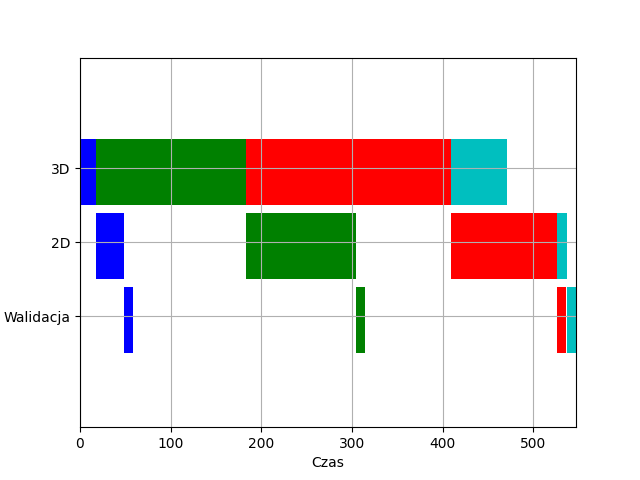
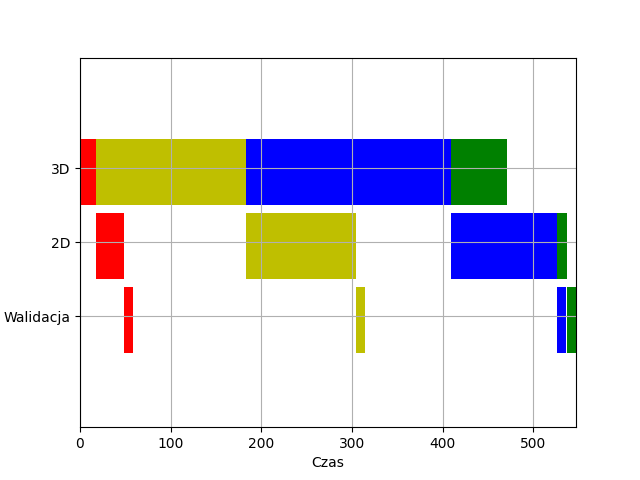
update front / new bootstrap table display

Changed region(s): [[0.125, 0.2812, 0.9062, 0.75]]

diff --git a/templates/display.html b/templates/display.html
@@ -13,13 +13,19 @@
 <br><br>
 
 <h2>Zestawienie przedstawiające czasy trwania poszczególnych zadań dla konkretnego projektowania. </h2>
-<table class="table table-dark">
-    <thead>
+<table class="table">
+    <thead class="table-light">
     <tr>
         <th scope="col"></th>
-        <th scope="col">Projektowanie 3D</th>
-        <th scope="col">Projektowanie 2D</th>
-        <th scope="col">Weryfikacja/Walidacja</th>
+        <th scope="col"><h5>Projektowanie 3D</h5></th>
+        <th scope="col"><h5>Projektowanie 2D</h5></th>
+        <th scope="col"><h5>Weryfikacja/Walidacja</h5></th>
+    </tr>
+    <tr>
+        <th scope="col"></th>
+        <th scope="col">Czas trwania zadania[h]</th>
+        <th scope="col">Czas trwania zadania[h]</th>
+        <th scope="col">Czas trwania zadania[h]</th>
     </tr>
     </thead>
     <tbody>
@@ -50,101 +56,71 @@
     </tbody>
 </table>
 
-<h2>Poszeregowane zestawienie dla najlepszej sekwencji wykonywania się zadań. </h2>
-<table class="table table-dark">
-    <thead>
+<h2>Poszeregowane zestawienie dla najlepszej sekwencji wykonywania się zadań. {{data_3D}}</h2>
+<table class="table">
+    <thead class="table-light">
     <tr>
         <th scope="col"></th>
-        <th scope="col">Projektowanie 3D</th>
-        <th scope="col">Projektowanie 2D</th>
-        <th scope="col">Weryfikacja/Walidacja</th>
+        <th colspan="2"><h5>Projektowanie 3D</h5></th>
+        <th colspan="2"><h5>Projektowanie 2D</h5></th>
+        <th colspan="2"><h5>Weryfikacja/Walidacja</h5></th>
+    </tr>
+    <tr>
+        <th scope="col"></th>
+        <th scope="col">Czas rozpoczęcia zadania[h]</th>
+        <th scope="col">Czas trwania zadania[h]</th>
+        <th scope="col">Czas rozpoczęcia zadania[h]</th>
+        <th scope="col">Czas trwania zadania[h]</th>
+        <th scope="col">Czas rozpoczęcia zadania[h]</th>
+        <th scope="col">Czas trwania zadania[h]</th>
     </tr>
     </thead>
     <tbody>
     <tr class="{{tab_print[seq[0]]}}">
-        <th scope="row">{{tasks[0]}}</th>
-        <td>{{o[0][seq[0]]}}</td>
-        <td>{{o[1][seq[0]]}}</td>
-        <td>{{o[2][seq[0]]}}</td>
+        <th scope="row">{{tasks[seq[0]]}}</th>
+        <td>{{_3D[0]}}</td>
+        <td>{{_3D[1]}}</td>
+        <td>{{_2D[0]}}</td>
+        <td>{{_2D[1]}}</td>
+        <td>{{_Validation[0]}}</td>
+        <td>{{_Validation[1]}}</td>
     </tr>
     <tr class="{{tab_print[seq[1]]}}">
         <th scope="row">{{tasks[seq[1]]}}</th>
-        <td>{{o[0][seq[1]]}}</td>
-        <td>{{o[1][seq[1]]}}</td>
-        <td>{{o[2][seq[1]]}}</td>
+        <td>{{_3D[2]}}</td>
+        <td>{{_3D[3]}}</td>
+        <td>{{_2D[2]}}</td>
+        <td>{{_2D[3]}}</td>
+        <td>{{_Validation[2]}}</td>
+        <td>{{_Validation[3]}}</td>
     </tr>
     <tr class="{{tab_print[seq[2]]}}">
         <th scope="row">{{tasks[seq[2]]}}</th>
-        <td>{{o[0][seq[2]]}}</td>
-        <td>{{o[1][seq[2]]}}</td>
-        <td>{{o[2][seq[2]]}}</td>
+        <td>{{_3D[4]}}</td>
+        <td>{{_3D[5]}}</td>
+        <td>{{_2D[4]}}</td>
+        <td>{{_2D[5]}}</td>
+        <td>{{_Validation[4]}}</td>
+        <td>{{_Validation[5]}}</td>
     </tr>
     <tr class="{{tab_print[seq[3]]}}">
         <th scope="row">{{tasks[seq[3]]}}</th>
-        <td>{{o[0][seq[3]]}}</td>
-        <td>{{o[1][seq[3]]}}</td>
-        <td>{{o[2][seq[3]]}}</td>
-    </tr>
-    </tbody>
-</table>
-
-<h2>Tabela przedstawiająca czas rozpoczęcia się zadania oraz ilość trwania. </h2>
-
-<table class="table table-dark">
-    <thead>
-    <tr>
-        <th scope="col"></th>
-        <th scope="col">Projektowanie 3D</th>
-        <th scope="col">Projektowanie 2D</th>
-        <th scope="col">Weryfikacja/Walidacja</th>
-    </tr>
-    </thead>
-    <tbody>
-    <tr class="{{tab_print[seq[0]]}}">
-        <th scope="row">{{tasks[0]}}</th>
-        <td>{{o[0][seq[0]]}}</td>
-        <td>{{o[1][seq[0]]}}</td>
-        <td>{{o[2][seq[0]]}}</td>
-    </tr>
-    <tr class="{{tab_print[seq[1]]}}">
-        <th scope="row">{{tasks[seq[1]]}}</th>
-        <td>{{o[0][seq[1]]}}</td>
-        <td>{{o[1][seq[1]]}}</td>
-        <td>{{o[2][seq[1]]}}</td>
-    </tr>
-    <tr class="{{tab_print[seq[2]]}}">
-        <th scope="row">{{tasks[seq[2]]}}</th>
-        <td>{{o[0][seq[2]]}}</td>
-        <td>{{o[1][seq[2]]}}</td>
-        <td>{{o[2][seq[2]]}}</td>
-    </tr>
-    <tr class="{{tab_print[seq[3]]}}">
-        <th scope="row">{{tasks[seq[3]]}}</th>
-        <td>{{o[0][seq[3]]}}</td>
-        <td>{{o[1][seq[3]]}}</td>
-        <td>{{o[2][seq[3]]}}</td>
+        <td>{{_3D[6]}}</td>
+        <td>{{_3D[7]}}</td>
+        <td>{{_2D[6]}}</td>
+        <td>{{_2D[7]}}</td>
+        <td>{{_Validation[6]}}</td>
+        <td>{{_Validation[7]}}</td>
     </tr>
     </tbody>
 </table>
 
 
-<div>
-    Plik .txt z ilością grup projektujących, zadań wraz z dlugością ich wykonywania (1 wiersz to ilość zadań, grup
-    projektujących):
-    <pre><b>{{display}} </b></pre>
-
-    Kolejność wykonywania/rozpoczęcia poszczególnych zadań:
-    <pre><b>{{seq}}</b></pre>
-
-    Zestawienie rozpoczęcia się zadań dla poszczególnych grup projektujących:
-    <pre><b>{{'3D'}} {{cmax2[0]}}
-    {{'2D'}} {{cmax2[1]}}
-        {{'Walidacja'}} {{cmax2[2]}} </b></pre>
-</div>
-
+<h2>Wykres przedstawiający poszeregowaną sekwencję rozpoczęcia zadań.</h2>
 <div>
     <img src="{{img}}">
 </div>
+
 
 {% endblock %}
 

diff --git a/webapp.py b/webapp.py
@@ -4,7 +4,7 @@ from flask_sqlalchemy import SQLAlchemy
 from werkzeug.utils import secure_filename
 import neh
 import graph_neh
-import matplotlib.pyplot as plt
+
 
 app = Flask(__name__)
 app.config["UPLOAD_FOLDER"] = "static/uploads/"
@@ -39,7 +39,7 @@ def upload():
 @app.route("/display", methods=["GET", "POST"])
 def save_file():
     tasks = ['Zadanie 1 - Belki', 'Zadanie 2 - Stropy', 'Zadanie 3 - Sciany', 'Zadanie 4 - Słupy']
-    tab_print = ['table-primary', 'table-secondary', 'table-success', 'table-danger']
+    tab_print = ['bg-primary', 'bg-warning', 'bg-success', 'bg-danger']
     if request.method == "POST":
         f = request.files["file"]
         filename = secure_filename(f.filename)
@@ -52,9 +52,9 @@ def save_file():
         seq, cmax, cmax2 = neh.neh(o, jobs, machines)
         print("NEH:", seq, '\nBest makespan:', cmax2)
         img = "static/" + filename + ".png"
-        graph_neh.graph(cmax2, img)
+        _3D, _2D, _Validation = graph_neh.graph(cmax2, seq, img)
 
-    return render_template("display.html", display=display, img=img, seq=seq, cmax2=cmax2, o=o, tasks=tasks, tab_print=tab_print)
+    return render_template("display.html", display=display, img=img, seq=seq, cmax2=cmax2, o=o, tasks=tasks, tab_print=tab_print, _2D=_2D, _3D=_3D, _Validation=_Validation)
 
 
 @app.route("/view")

diff --git a/graph_neh.py b/graph_neh.py
@@ -1,7 +1,7 @@
 import matplotlib.pyplot as plt
 import os
 
-def graph(best_makespan, filename):
+def graph(best_makespan, seq, filename):
     # Declaring a figure "gnt"
     fig, gnt = plt.subplots()
 
@@ -101,10 +101,13 @@ def graph(best_makespan, filename):
     print("3D: ", graph_3D)
     print("Validation: ", graph_Validation)
     print(" ")
+    graph_colors = ['b', 'y', 'g', 'r']
     gnt.broken_barh(graph_2D, (30, 9),
-                    facecolors=('b', 'g', 'r', 'c', 'm', 'y', 'k'))
+                    facecolors=(graph_colors[seq[0]], graph_colors[seq[1]], graph_colors[seq[2]], graph_colors[seq[3]]))
     gnt.broken_barh(graph_3D, (20, 9),
-                    facecolors=('b', 'g', 'r', 'c', 'm', 'y', 'k'))
+                    facecolors=(graph_colors[seq[0]], graph_colors[seq[1]], graph_colors[seq[2]], graph_colors[seq[3]]))
     gnt.broken_barh(graph_Validation, (10, 9),
-                    facecolors=('b', 'g', 'r', 'c', 'm', 'y', 'k'))
+                    facecolors=(graph_colors[seq[0]], graph_colors[seq[1]], graph_colors[seq[2]], graph_colors[seq[3]]))
     plt.savefig(filename)
+
+    return _2D, _3D, _Validation
